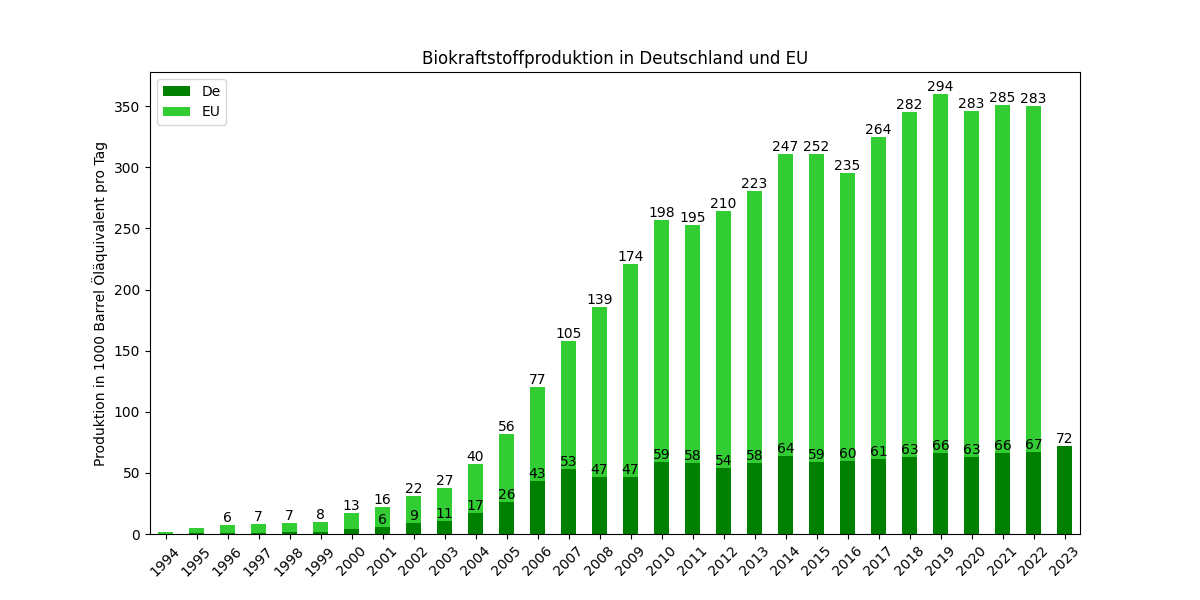
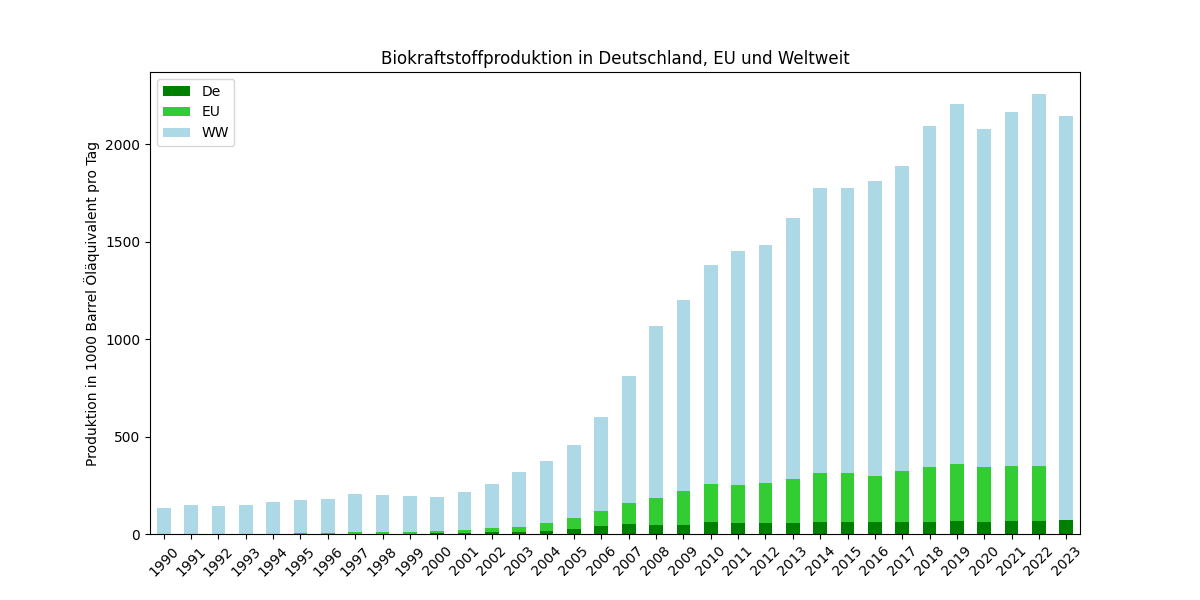
biofuel production chart update

diff --git a/pitch/data/biofuel_prod/biofuel_prod.py b/pitch/data/biofuel_prod/biofuel_prod.py
@@ -5,27 +5,35 @@ import matplotlib.pyplot as plt
 # Apply the default theme
 # sns.set_theme("dark")
 
-dat = "./produktion-von-biokraftstoffen-in-deutschland-und-eu-bis-2023.csv"
+# dat = "./produktion-von-biokraftstoffen-in-deutschland-und-eu-bis-2023.csv"
+dat = "pitch\\data\\biofuel_prod\\produktion-von-biokraftstoffen-in-deutschland-und-EU-und-WW-bis-2023.csv"
 
 data = pd.read_csv(dat, sep=",")
 
 xlabel = "Jahr"
 ylabel = "Produktion in 1000 Barrel Öläquivalent pro Tag"
-title = "Biokraftstoffproduktion in Deutschland und EU"
+title = "Biokraftstoffproduktion in Deutschland, EU und Weltweit"
 
 # Set the color palette using seaborn
 # palette = sns.color_palette("dark", len(data.columns) - 1)  # 'husl' is an example palette
 
-ax = data.plot.bar(x="Jahr", figsize=(12, 6), xlabel="", ylabel=ylabel, title=title, rot=45, stacked=True, color=["green", "limegreen"])
+# data["EU"] = (data["EU"] / data.at[29, "EU"])
+# data["De"] = (data["De"] / data.at[29, "De"])
+# data["WW"] = (data["WW"] / data.at[29, "WW"])
+# print(data.at[29 "EU"])
+# print(data)
+
+ax = data.plot.bar(x="Jahr", figsize=(12, 6), xlabel="", ylabel=ylabel, title=title, rot=45, stacked=True, color=["green", "limegreen", "lightblue"])
+# plt.grid()
 
 # Schwellenwert definieren
 threshold = 5
 
 # Annotate the bars with their respective values
-for container in ax.containers:
-    labels = [int(val) if val > threshold else '' for val in container.datavalues]
-    ax.bar_label(container, labels=labels, label_type='edge')
+# for container in ax.containers:
+#     labels = [int(val) if val > threshold else '' for val in container.datavalues]
+#     ax.bar_label(container, labels=labels, label_type='edge')
 
 # plt.show()
-plt.savefig("biofuel_prod.svg")
-plt.savefig("biofuel_prod.png")
+plt.savefig("pitch\\data\\biofuel_prod\\biofuel_prod.svg")
+plt.savefig("pitch\\data\\biofuel_prod\\biofuel_prod.png")
